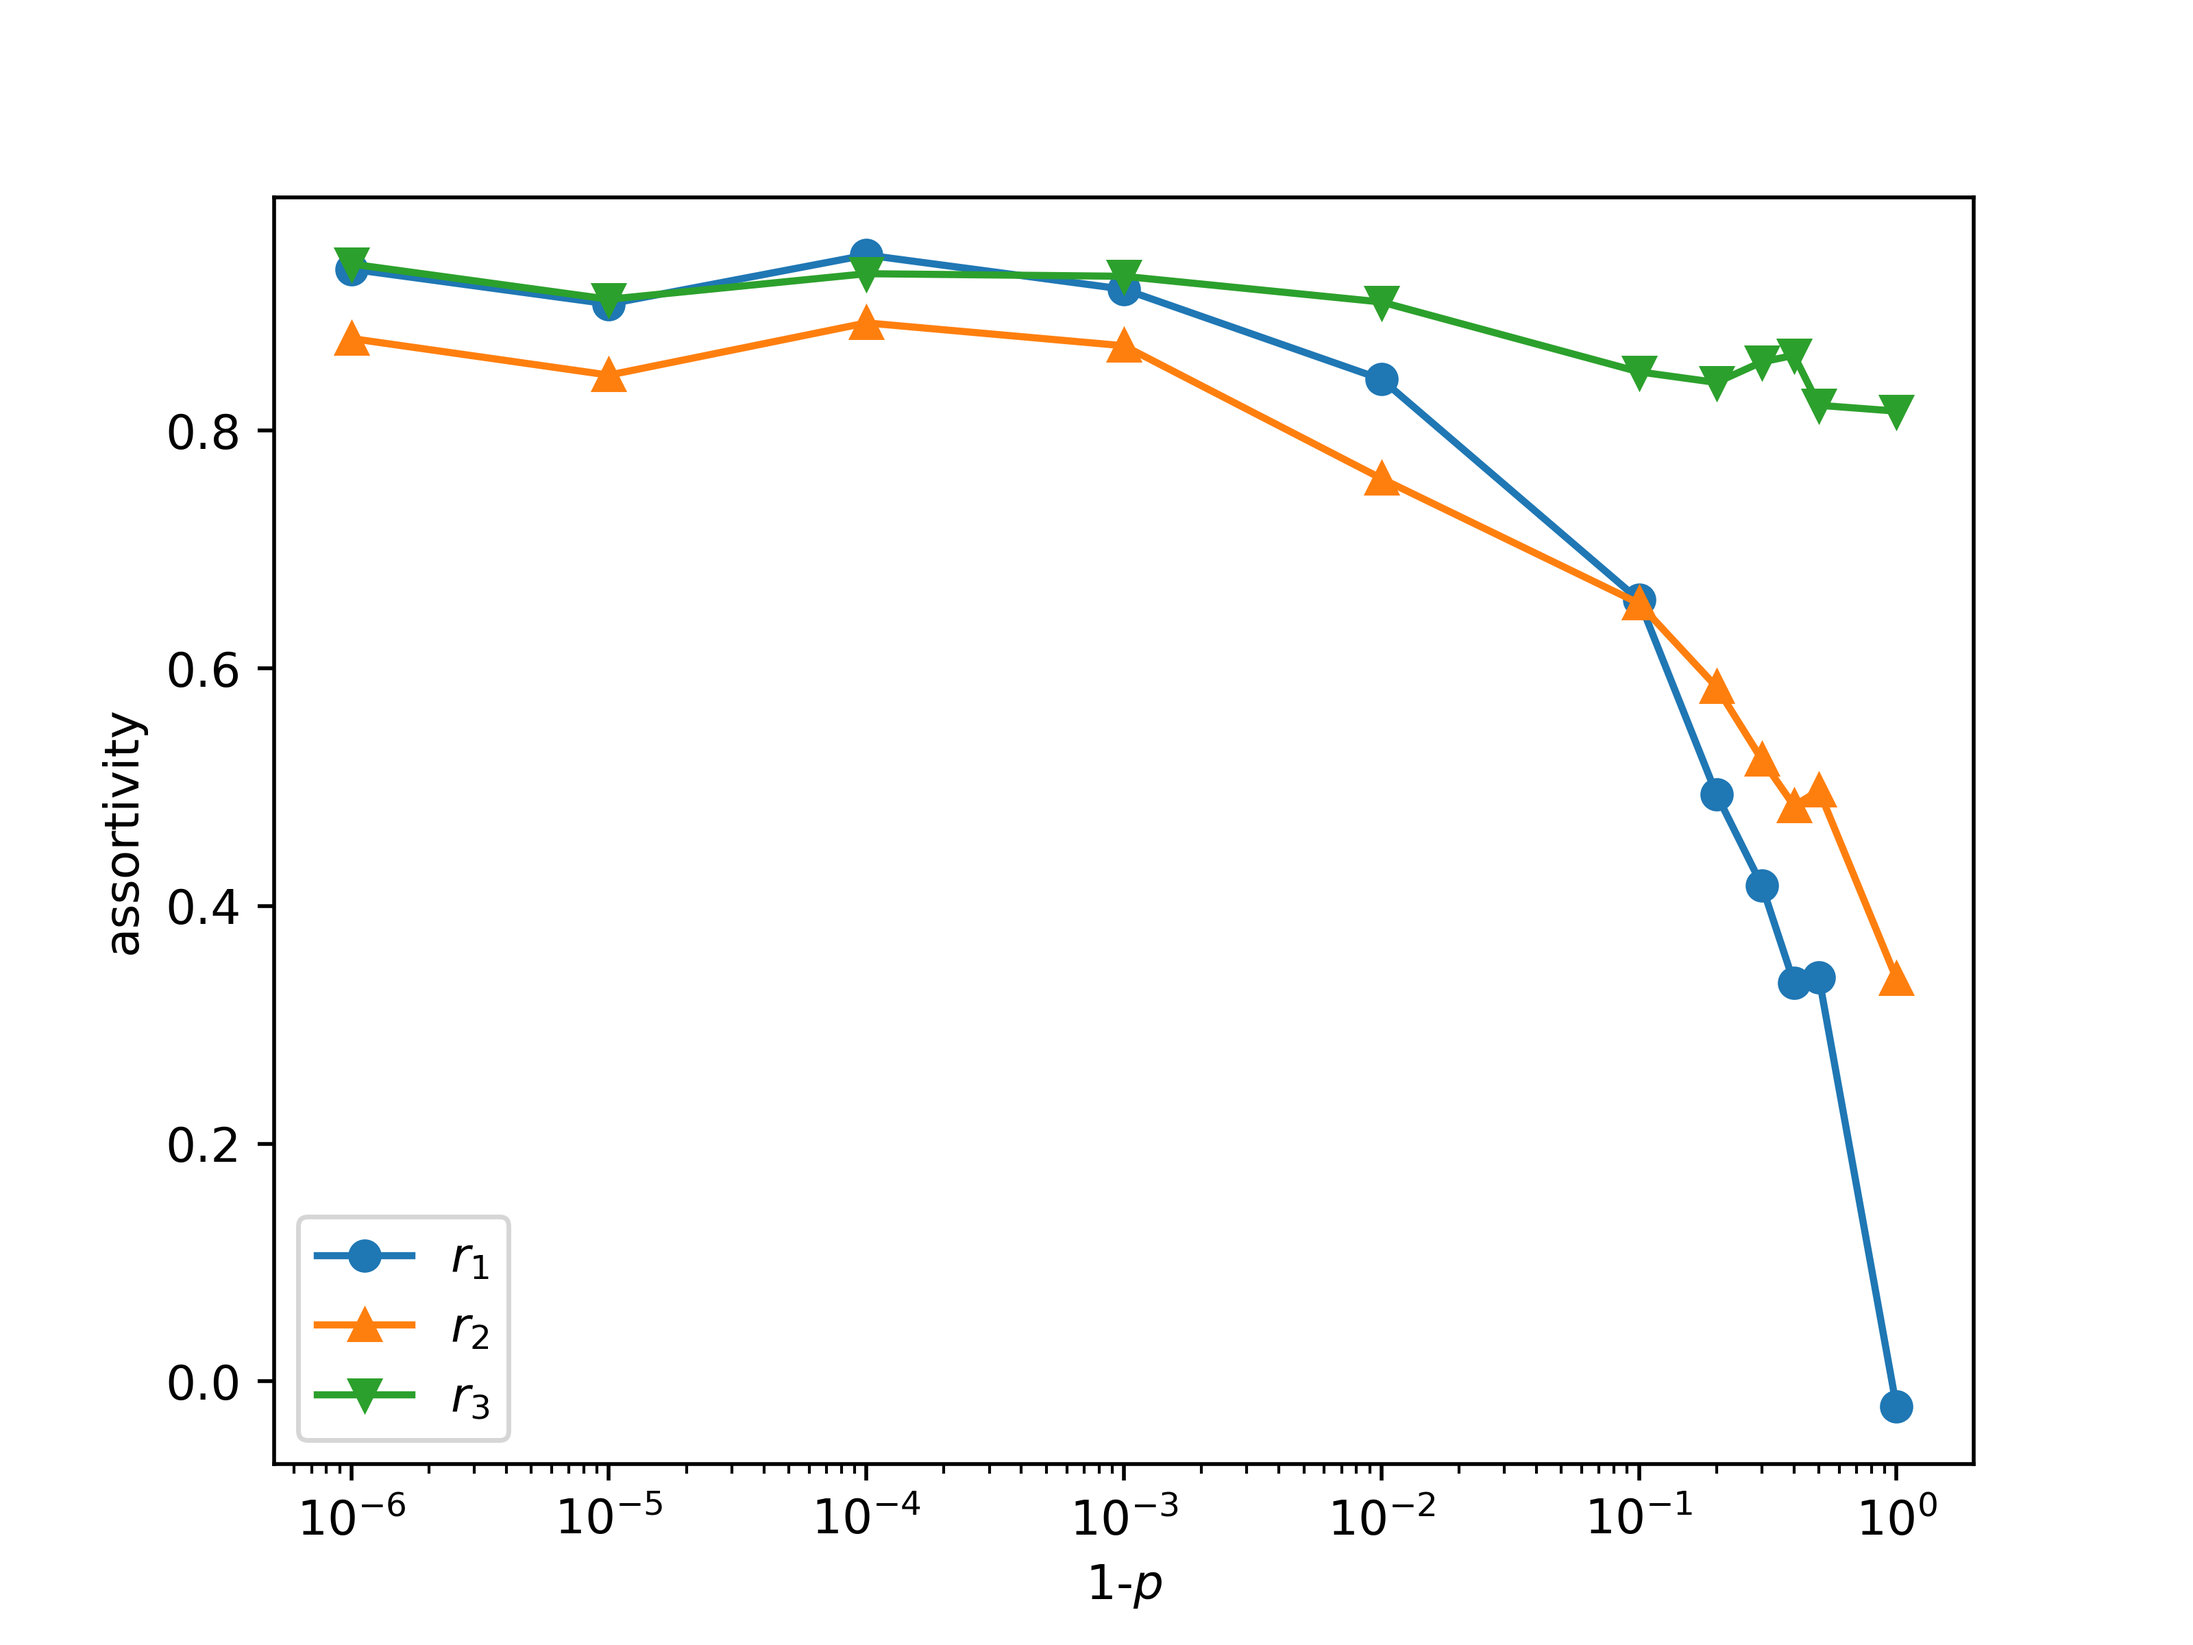
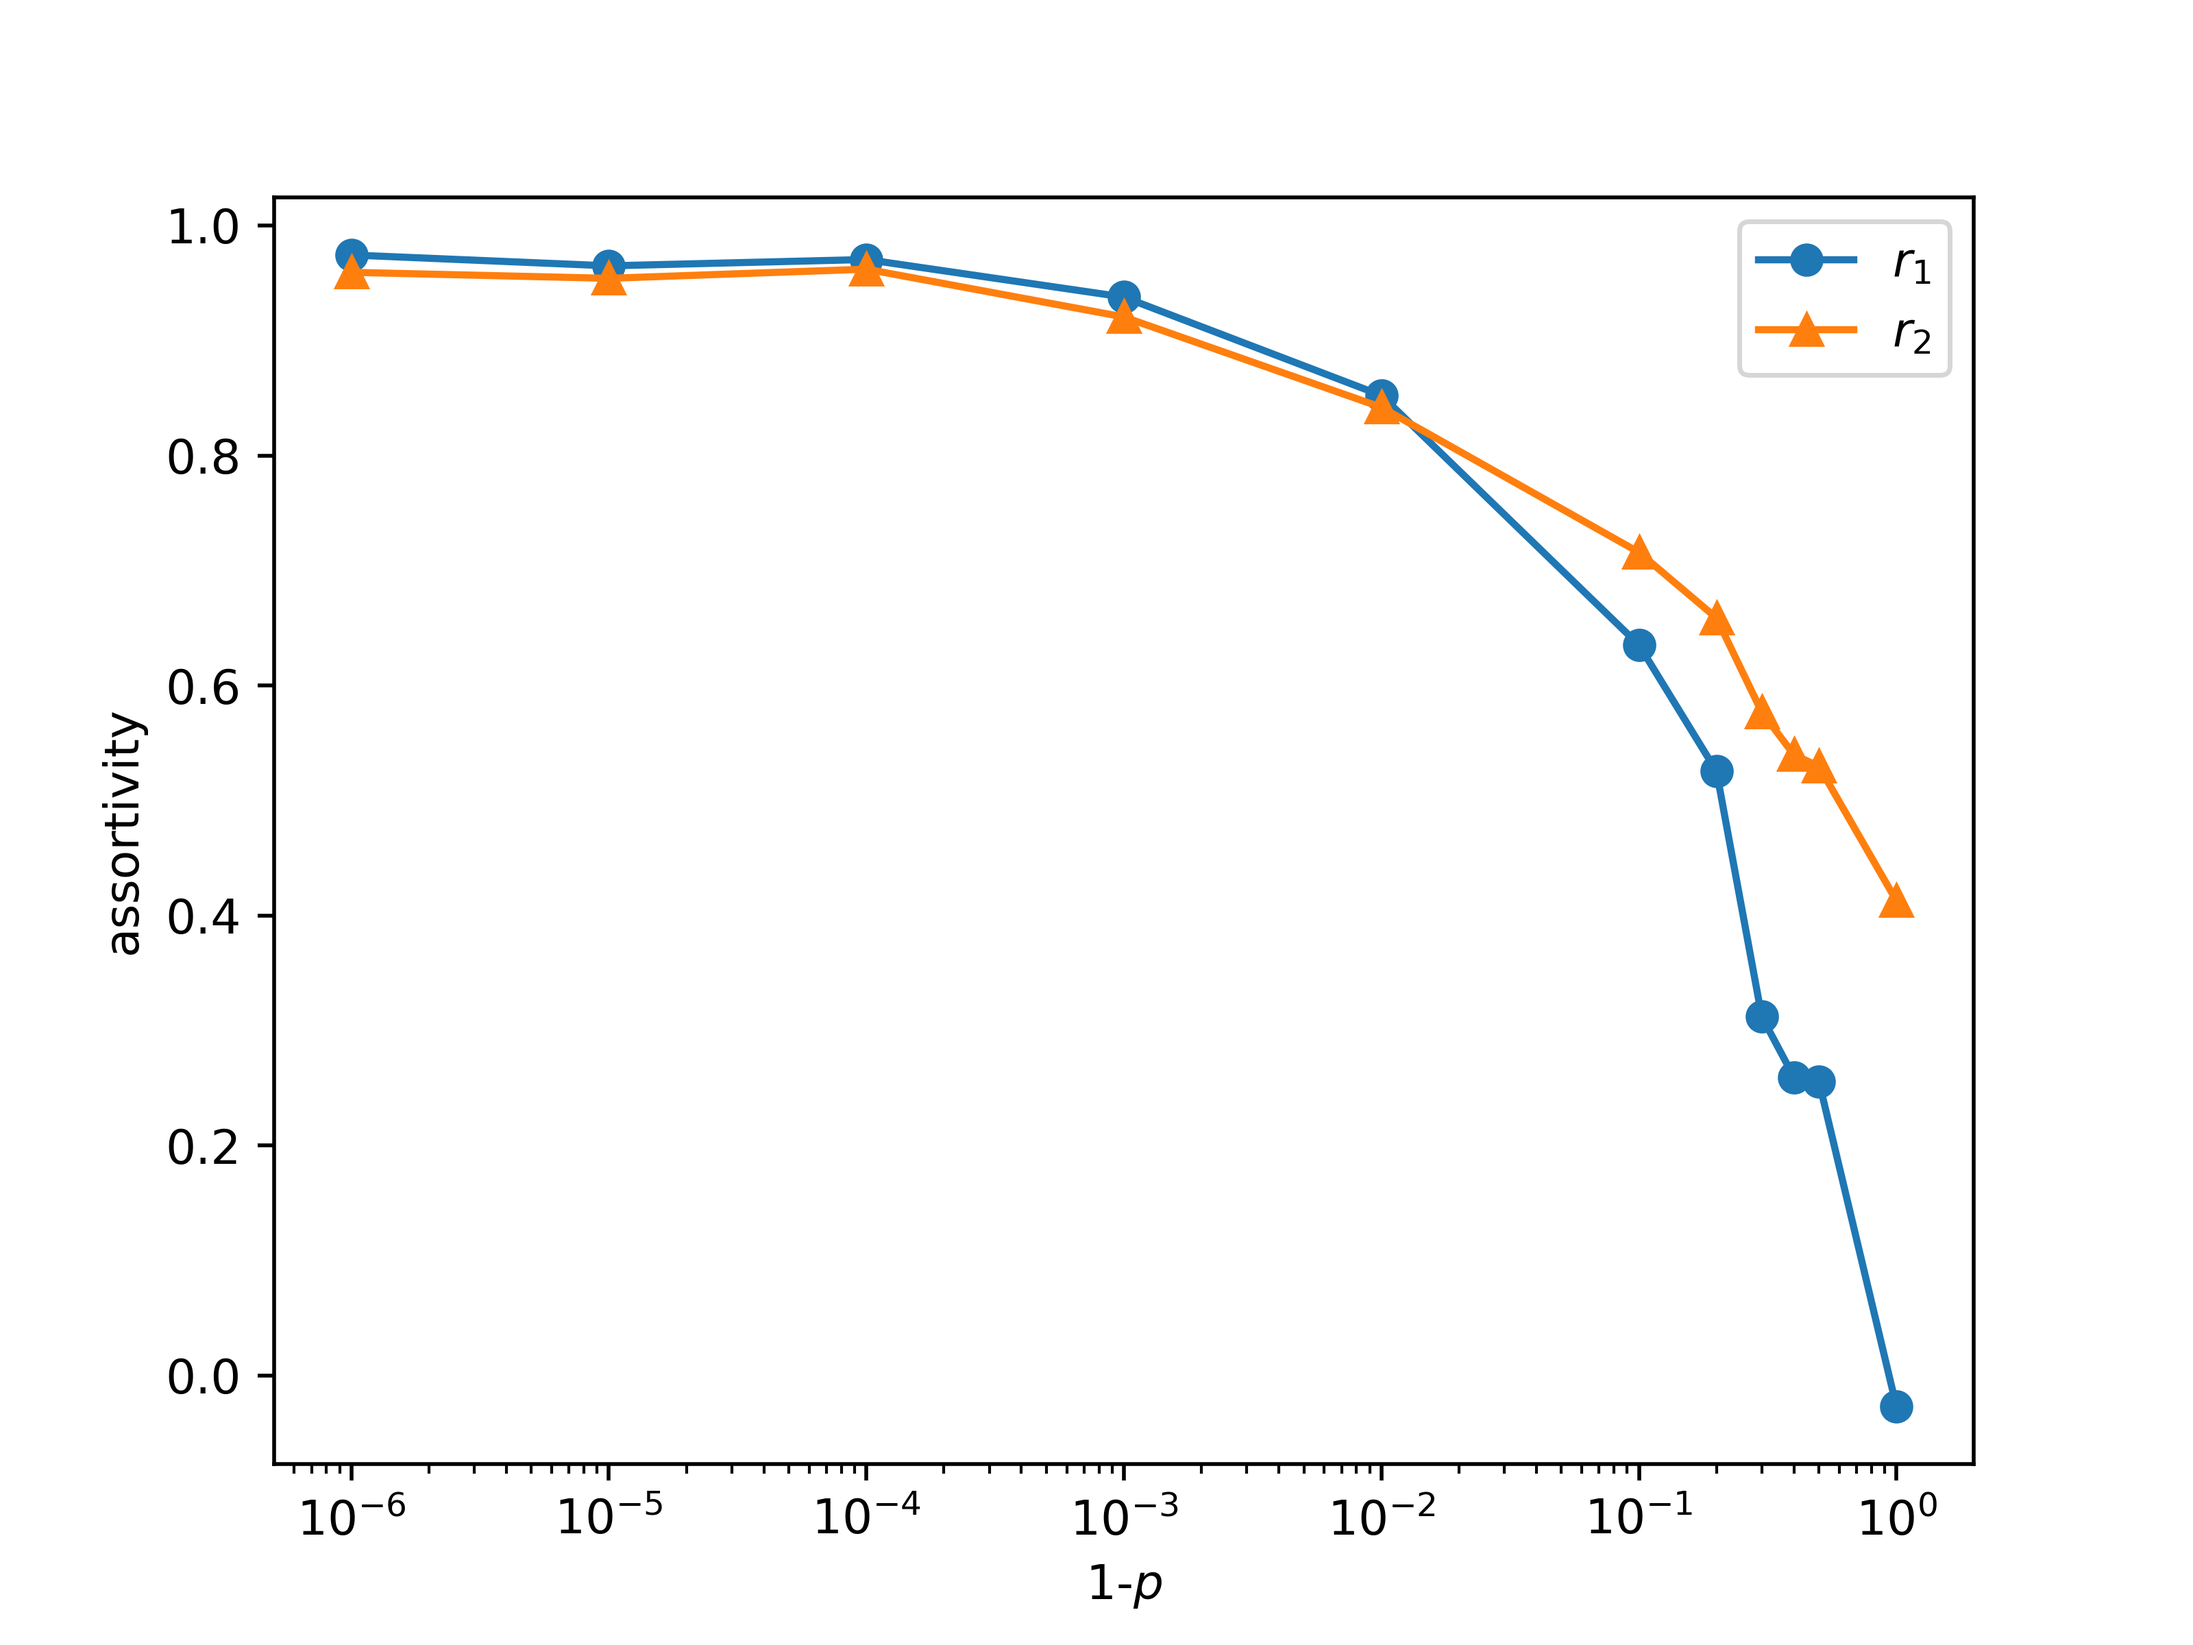
assortivity

diff --git a/assortivity.py b/assortivity.py
@@ -109,7 +109,10 @@ def calculate_disass(G, p , Iteration):
     return value
 
 ############首先生成BA网络##########
-
+# G = nx.read_edgelist('datasets.txt')
+# print(G.nodes())
+# M = nx.degree_mixing_matrix(G)
+# print(M)
 Iteration = 10000  ##迭代次数
 P = [0.999999,0.99999,0.9999,0.999,0.99,0.9,0.8,0.7,0.6,0.5,0]
 P1 = [0.000001,0.00001,0.0001,0.001,0.01,0.1,0.2,0.3,0.4,0.5,1]
@@ -118,14 +121,14 @@ count = 0
 for i in P:
     print(i)
     G = nx.barabasi_albert_graph(200, 2)
-    for j in range(20):
+    for j in range(10):
         value1,value2,value3 = calculate_ass(G, i, Iteration)
         assortivity[count][0]= assortivity[count][0] + value1
         assortivity[count][1] = assortivity[count][1] + value2
         assortivity[count][2] = assortivity[count][2] + value3
-    assortivity[count][0] = assortivity[count][0] / 20
-    assortivity[count][1] = assortivity[count][1] / 20
-    assortivity[count][2] = assortivity[count][2] / 20
+    assortivity[count][0] = assortivity[count][0] / 10
+    assortivity[count][1] = assortivity[count][1] / 10
+    assortivity[count][2] = assortivity[count][2] / 10
     count = count + 1
 
 #
@@ -134,12 +137,12 @@ for i in P:
 assortivity = assortivity.T
 plt.semilogx(P1,assortivity[0],'o-',label='$r_1$')
 plt.semilogx(P1,assortivity[1],'^-',label='$r_2$')
-plt.semilogx(P1,assortivity[2],'v-',label='$r_3$')
+#plt.semilogx(P1,assortivity[2],'v-',label='$r_3$')
 plt.xlabel('1-$p$')
 plt.ylabel('assortivity')
 plt.legend()
 fid = open('dataset.txt','w')
 for i in range(11):
-    fid.write(str(P1[i])+' '+str(assortivity[i][0])+' '+str(assortivity[i][1])+' '+str(assortivity[i][2])+'\n')
+    fid.write(str(P1[i])+' '+str(assortivity[0][i])+' '+str(assortivity[1][i])+' '+str(assortivity[2][i])+'\n')
 plt.savefig('ass.png',dpi=500)
 plt.show()
